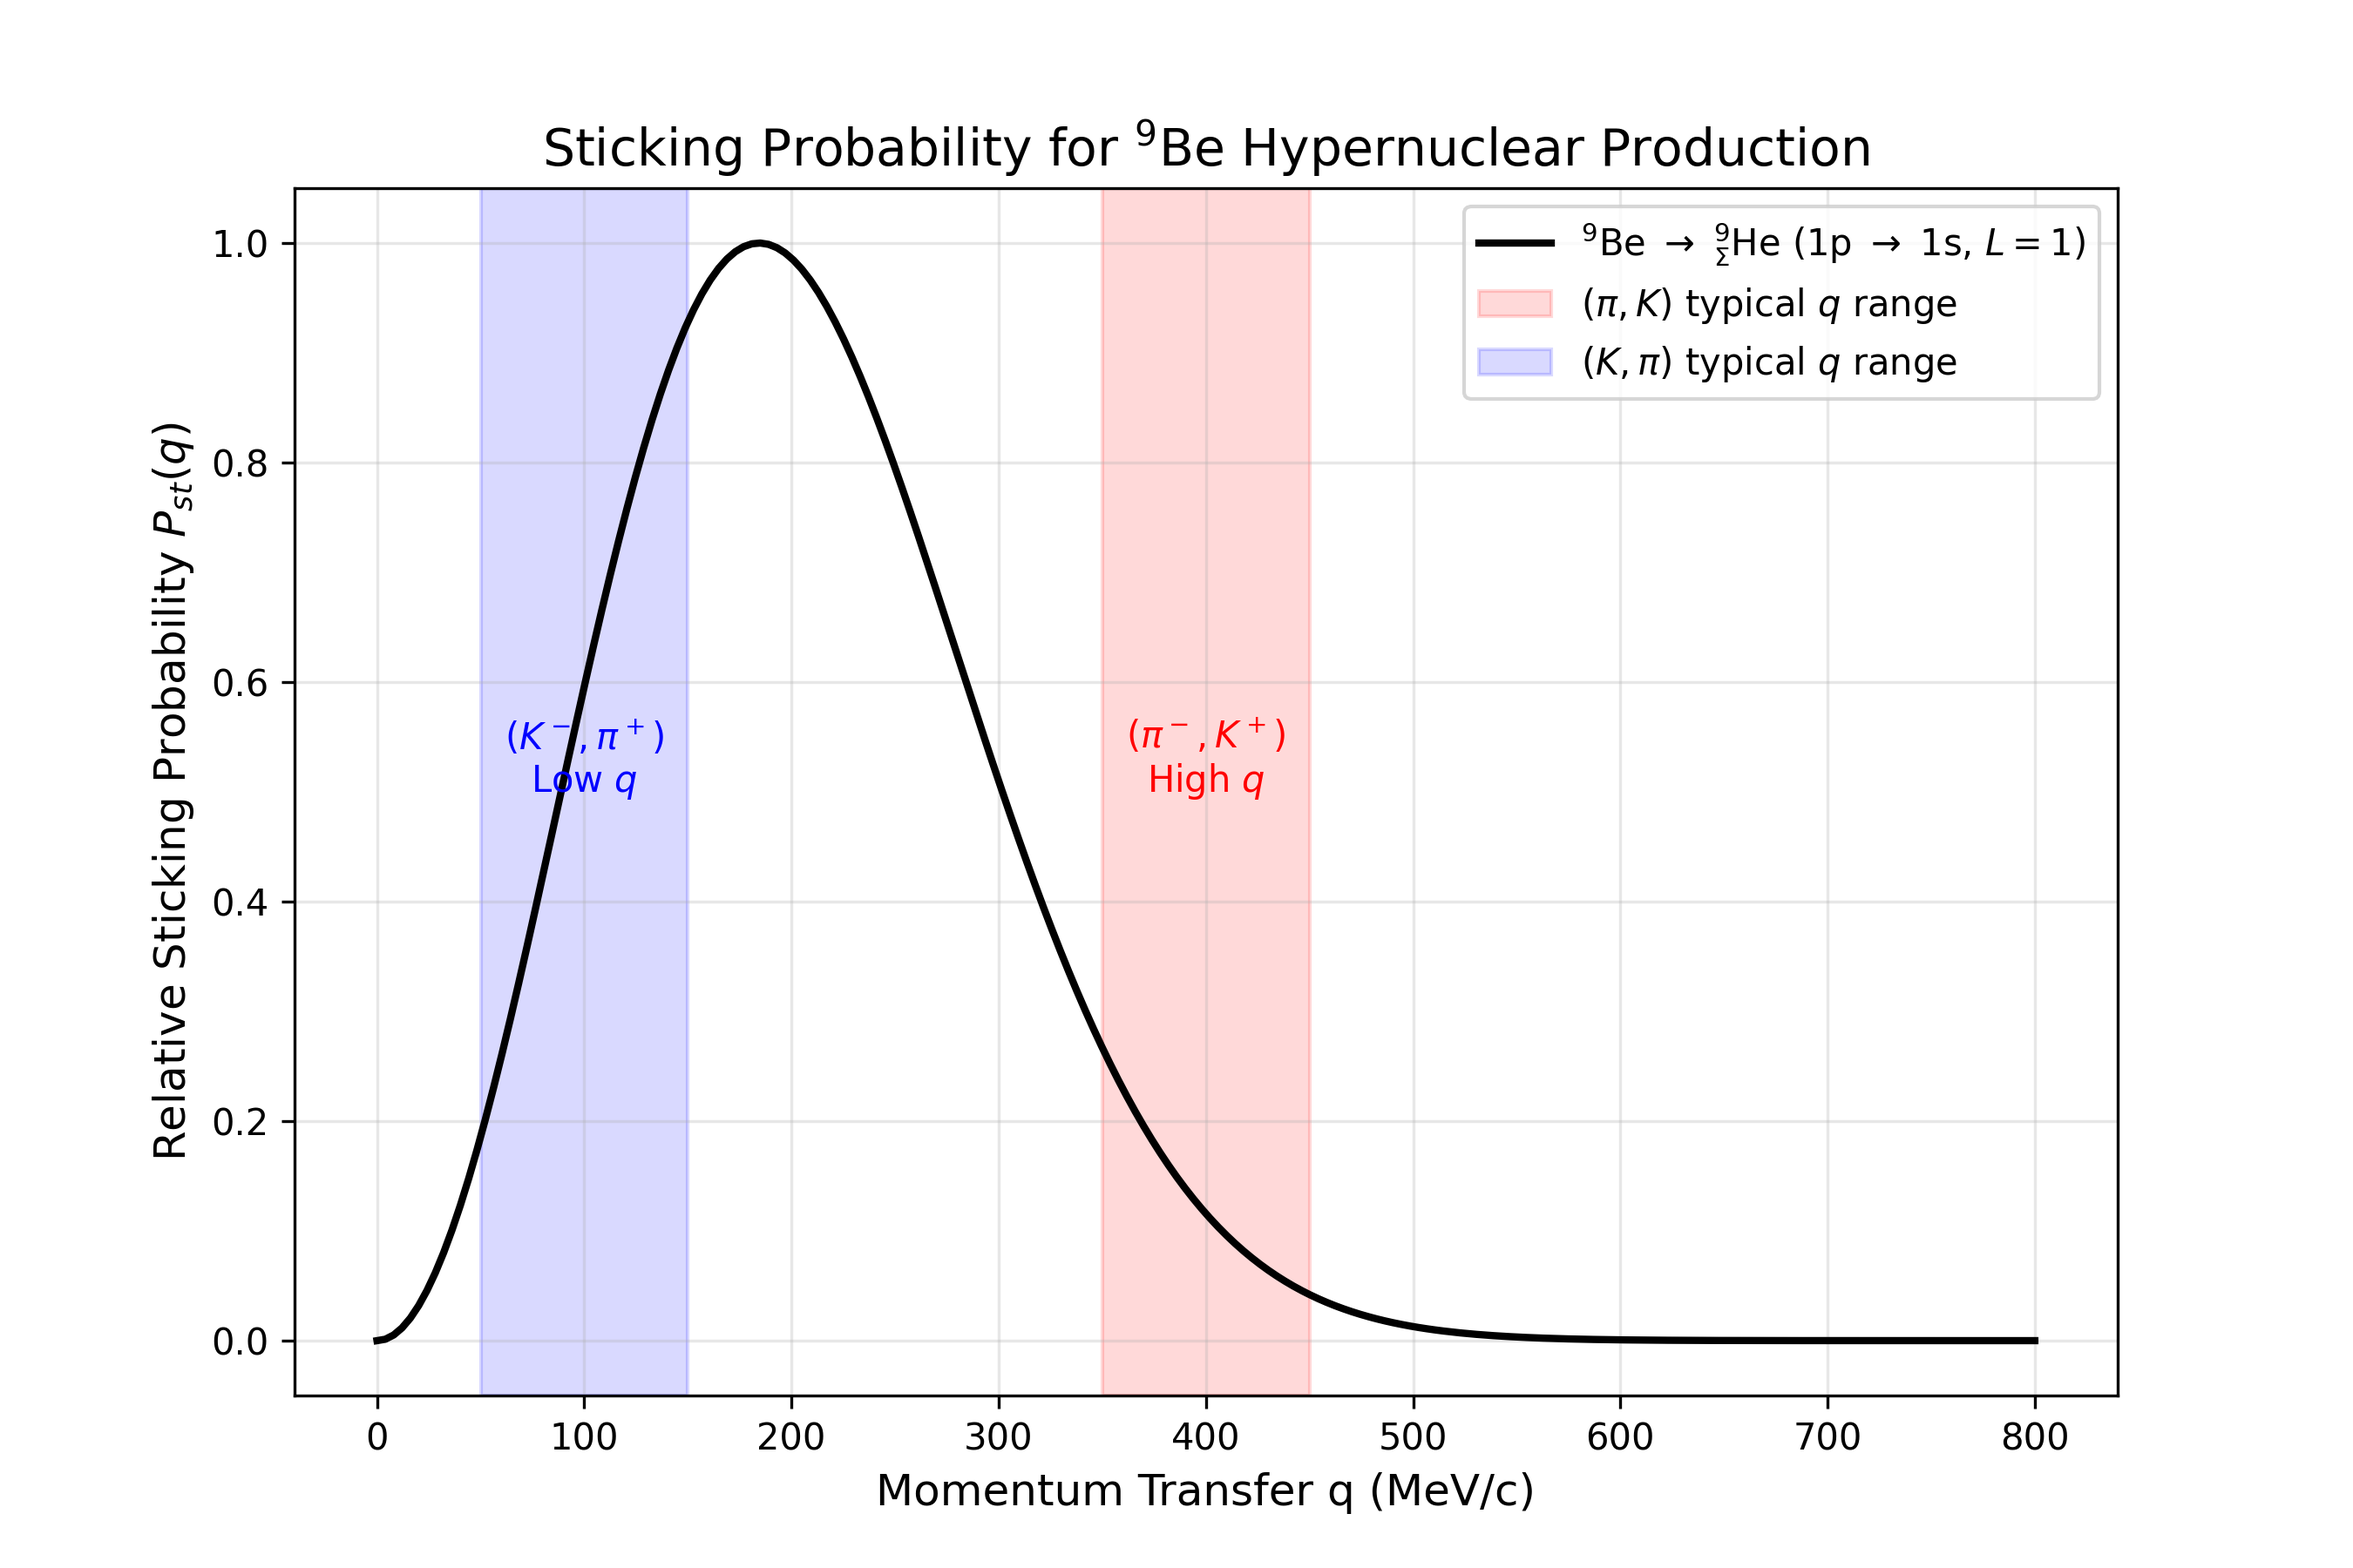
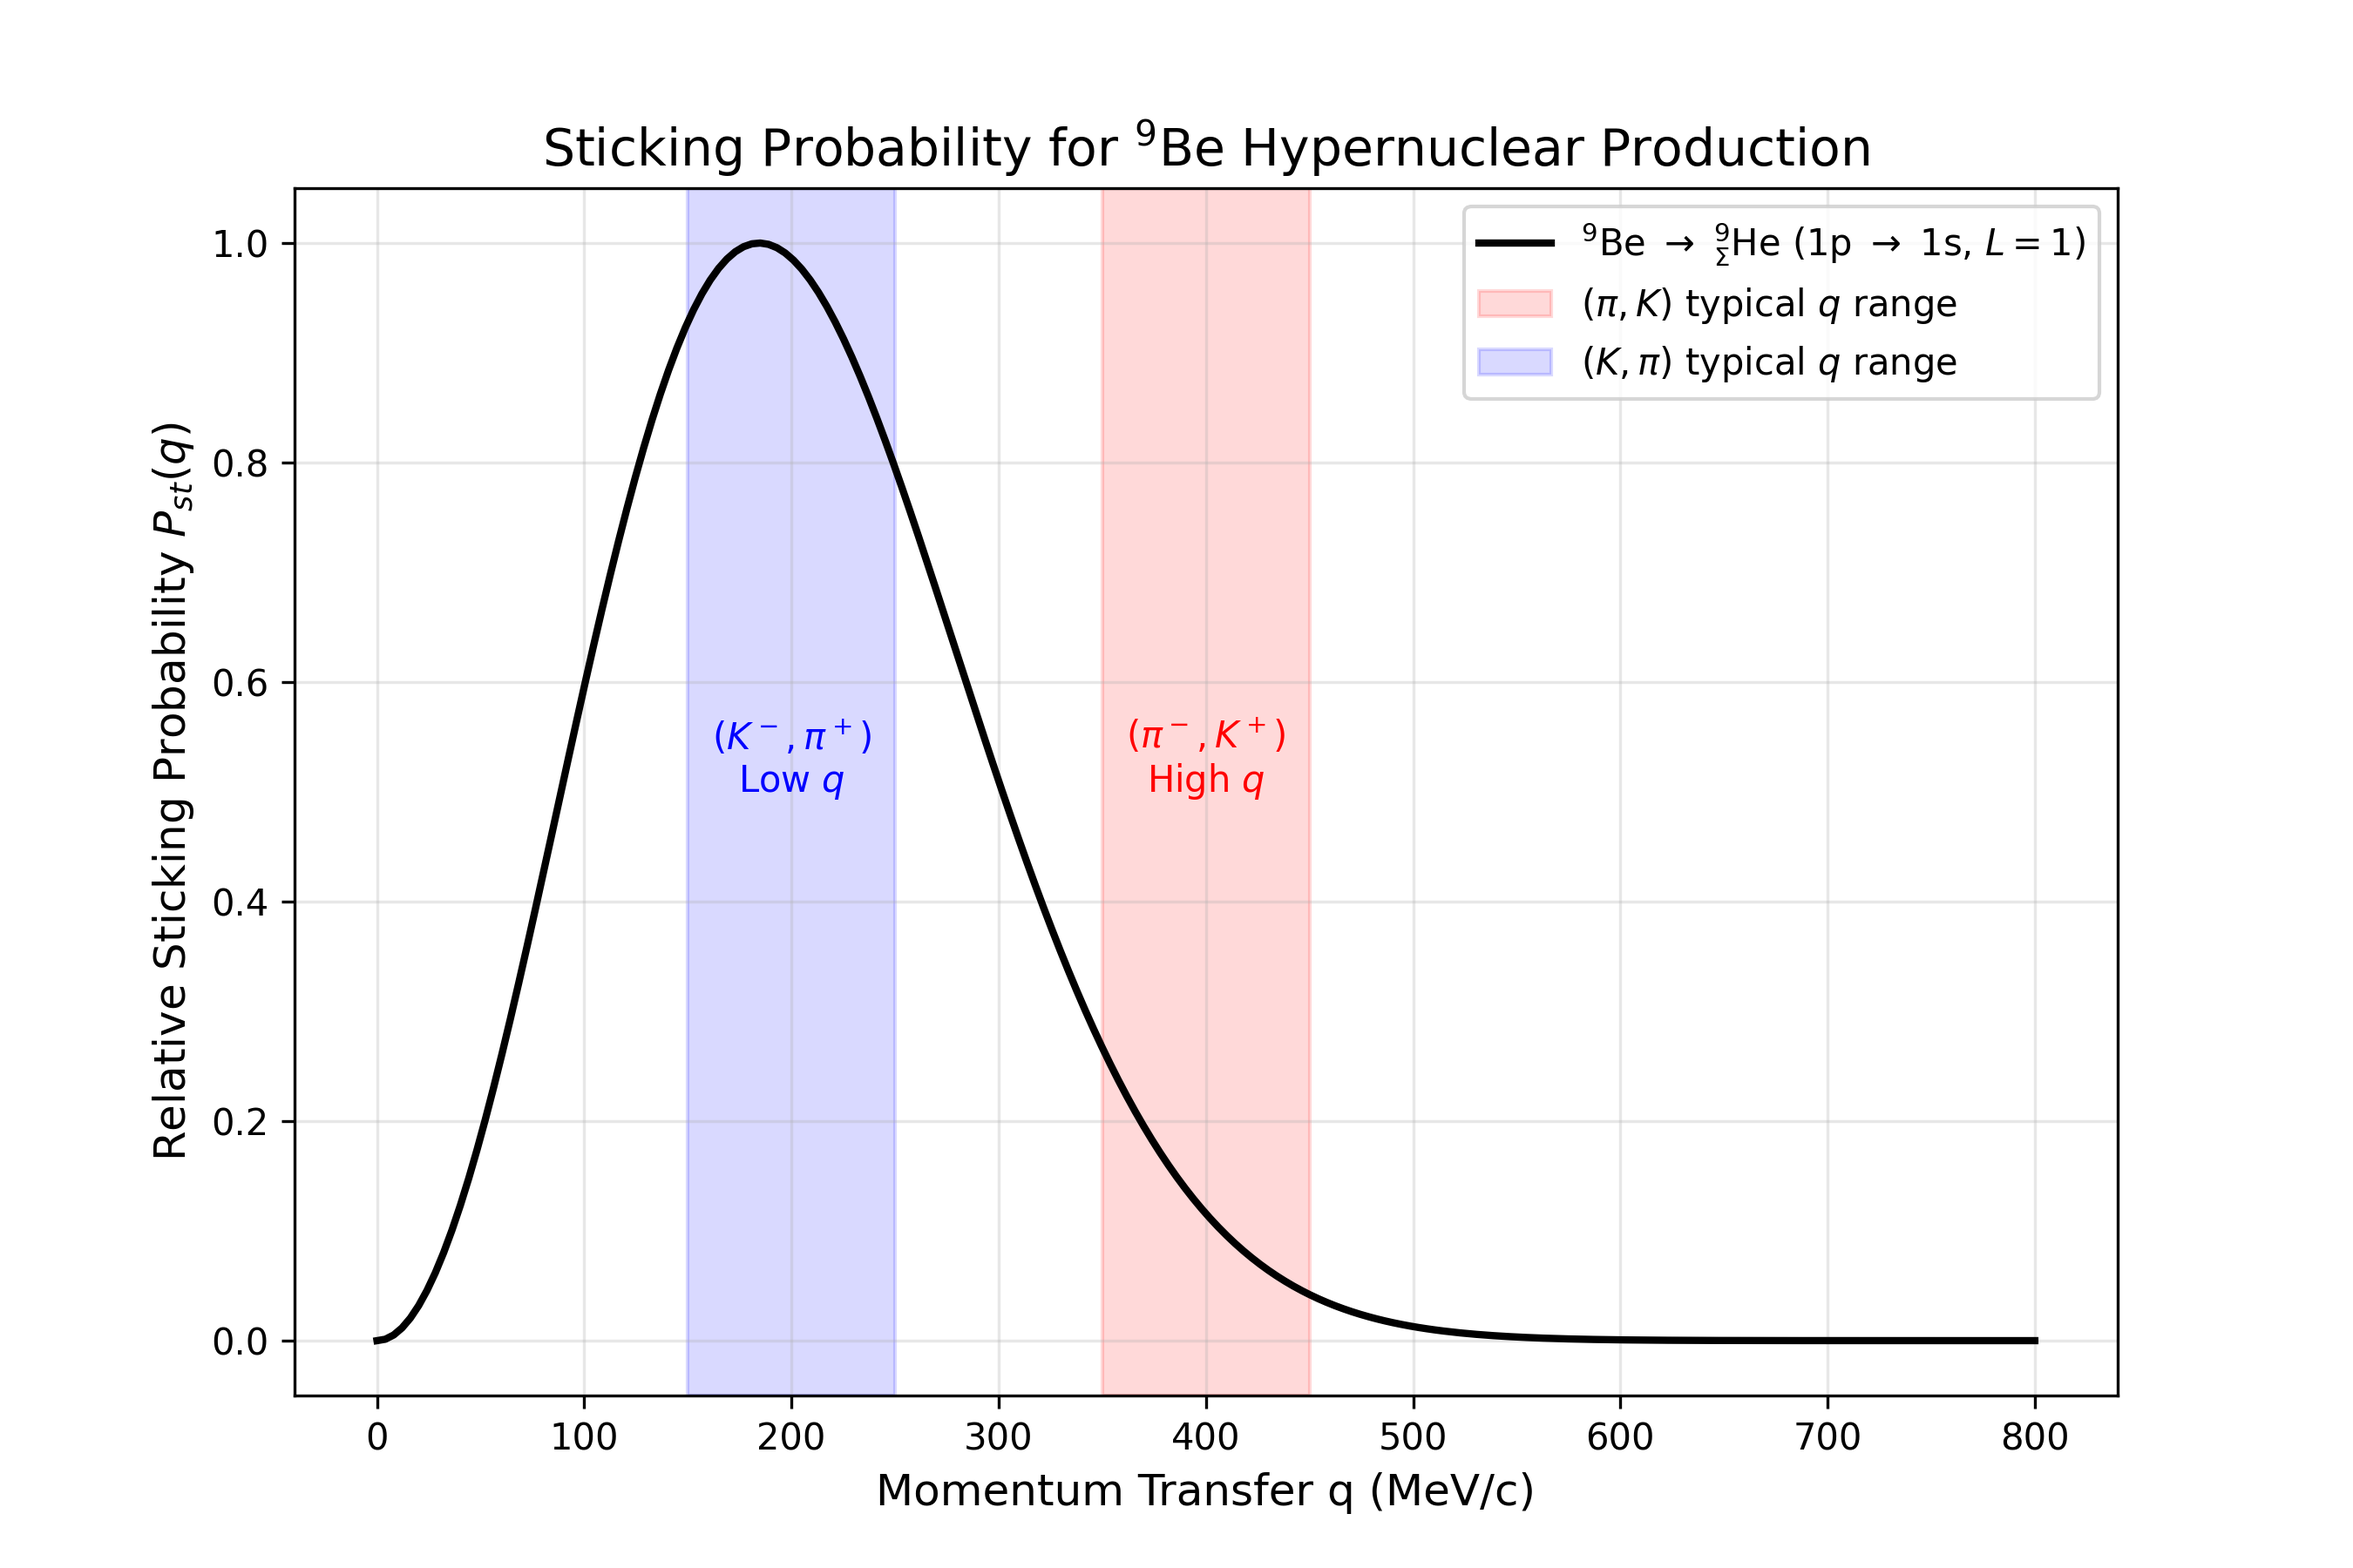
Update (K-, pi+) beam momentum assumption to 1.5 GeV/c and adjust q range

Changed region(s): [[0.1867, 0.0933, 0.4044, 0.9022]]

diff --git a/plot_9be_sigma.py b/plot_9be_sigma.py
@@ -17,11 +17,11 @@ def plot_9be_sigma():
     plt.plot(q_vals, pst, 'k-', lw=2, label=r"$^9$Be $\to$ $^9_\Sigma$He (1p $\to$ 1s, $L=1$)")
     
     # Highlight typical ranges
-    # (pi, K) at ~1.2 GeV/c, forward angles => q ~ 400-500 MeV/c
+    # (pi, K) at ~1.2 GeV/c, forward angles => q ~ 350-450 MeV/c
     plt.axvspan(350, 450, color='r', alpha=0.15, label=r"$(\pi, K)$ typical $q$ range")
     
-    # (K, pi) at ~0.6 GeV/c, forward angles => q ~ 50-150 MeV/c
-    plt.axvspan(50, 150, color='b', alpha=0.15, label=r"$(K, \pi)$ typical $q$ range")
+    # (K, pi) at ~1.5 GeV/c, forward angles => q ~ 150-250 MeV/c
+    plt.axvspan(150, 250, color='b', alpha=0.15, label=r"$(K, \pi)$ typical $q$ range")
 
     plt.xlabel("Momentum Transfer q (MeV/c)", fontsize=12)
     plt.ylabel("Relative Sticking Probability $P_{st}(q)$", fontsize=12)
@@ -30,7 +30,7 @@ def plot_9be_sigma():
     plt.legend()
     
     plt.text(400, 0.5, r"$(\pi^-, K^+)$" "\n" r"High $q$", fontsize=10, color='r', ha='center')
-    plt.text(100, 0.5, r"$(K^-, \pi^+)$" "\n" r"Low $q$", fontsize=10, color='b', ha='center')
+    plt.text(200, 0.5, r"$(K^-, \pi^+)$" "\n" r"Low $q$", fontsize=10, color='b', ha='center')
 
     plt.savefig("pst_9be_plot.png", dpi=300)
     print("Plot saved to pst_9be_plot.png")
